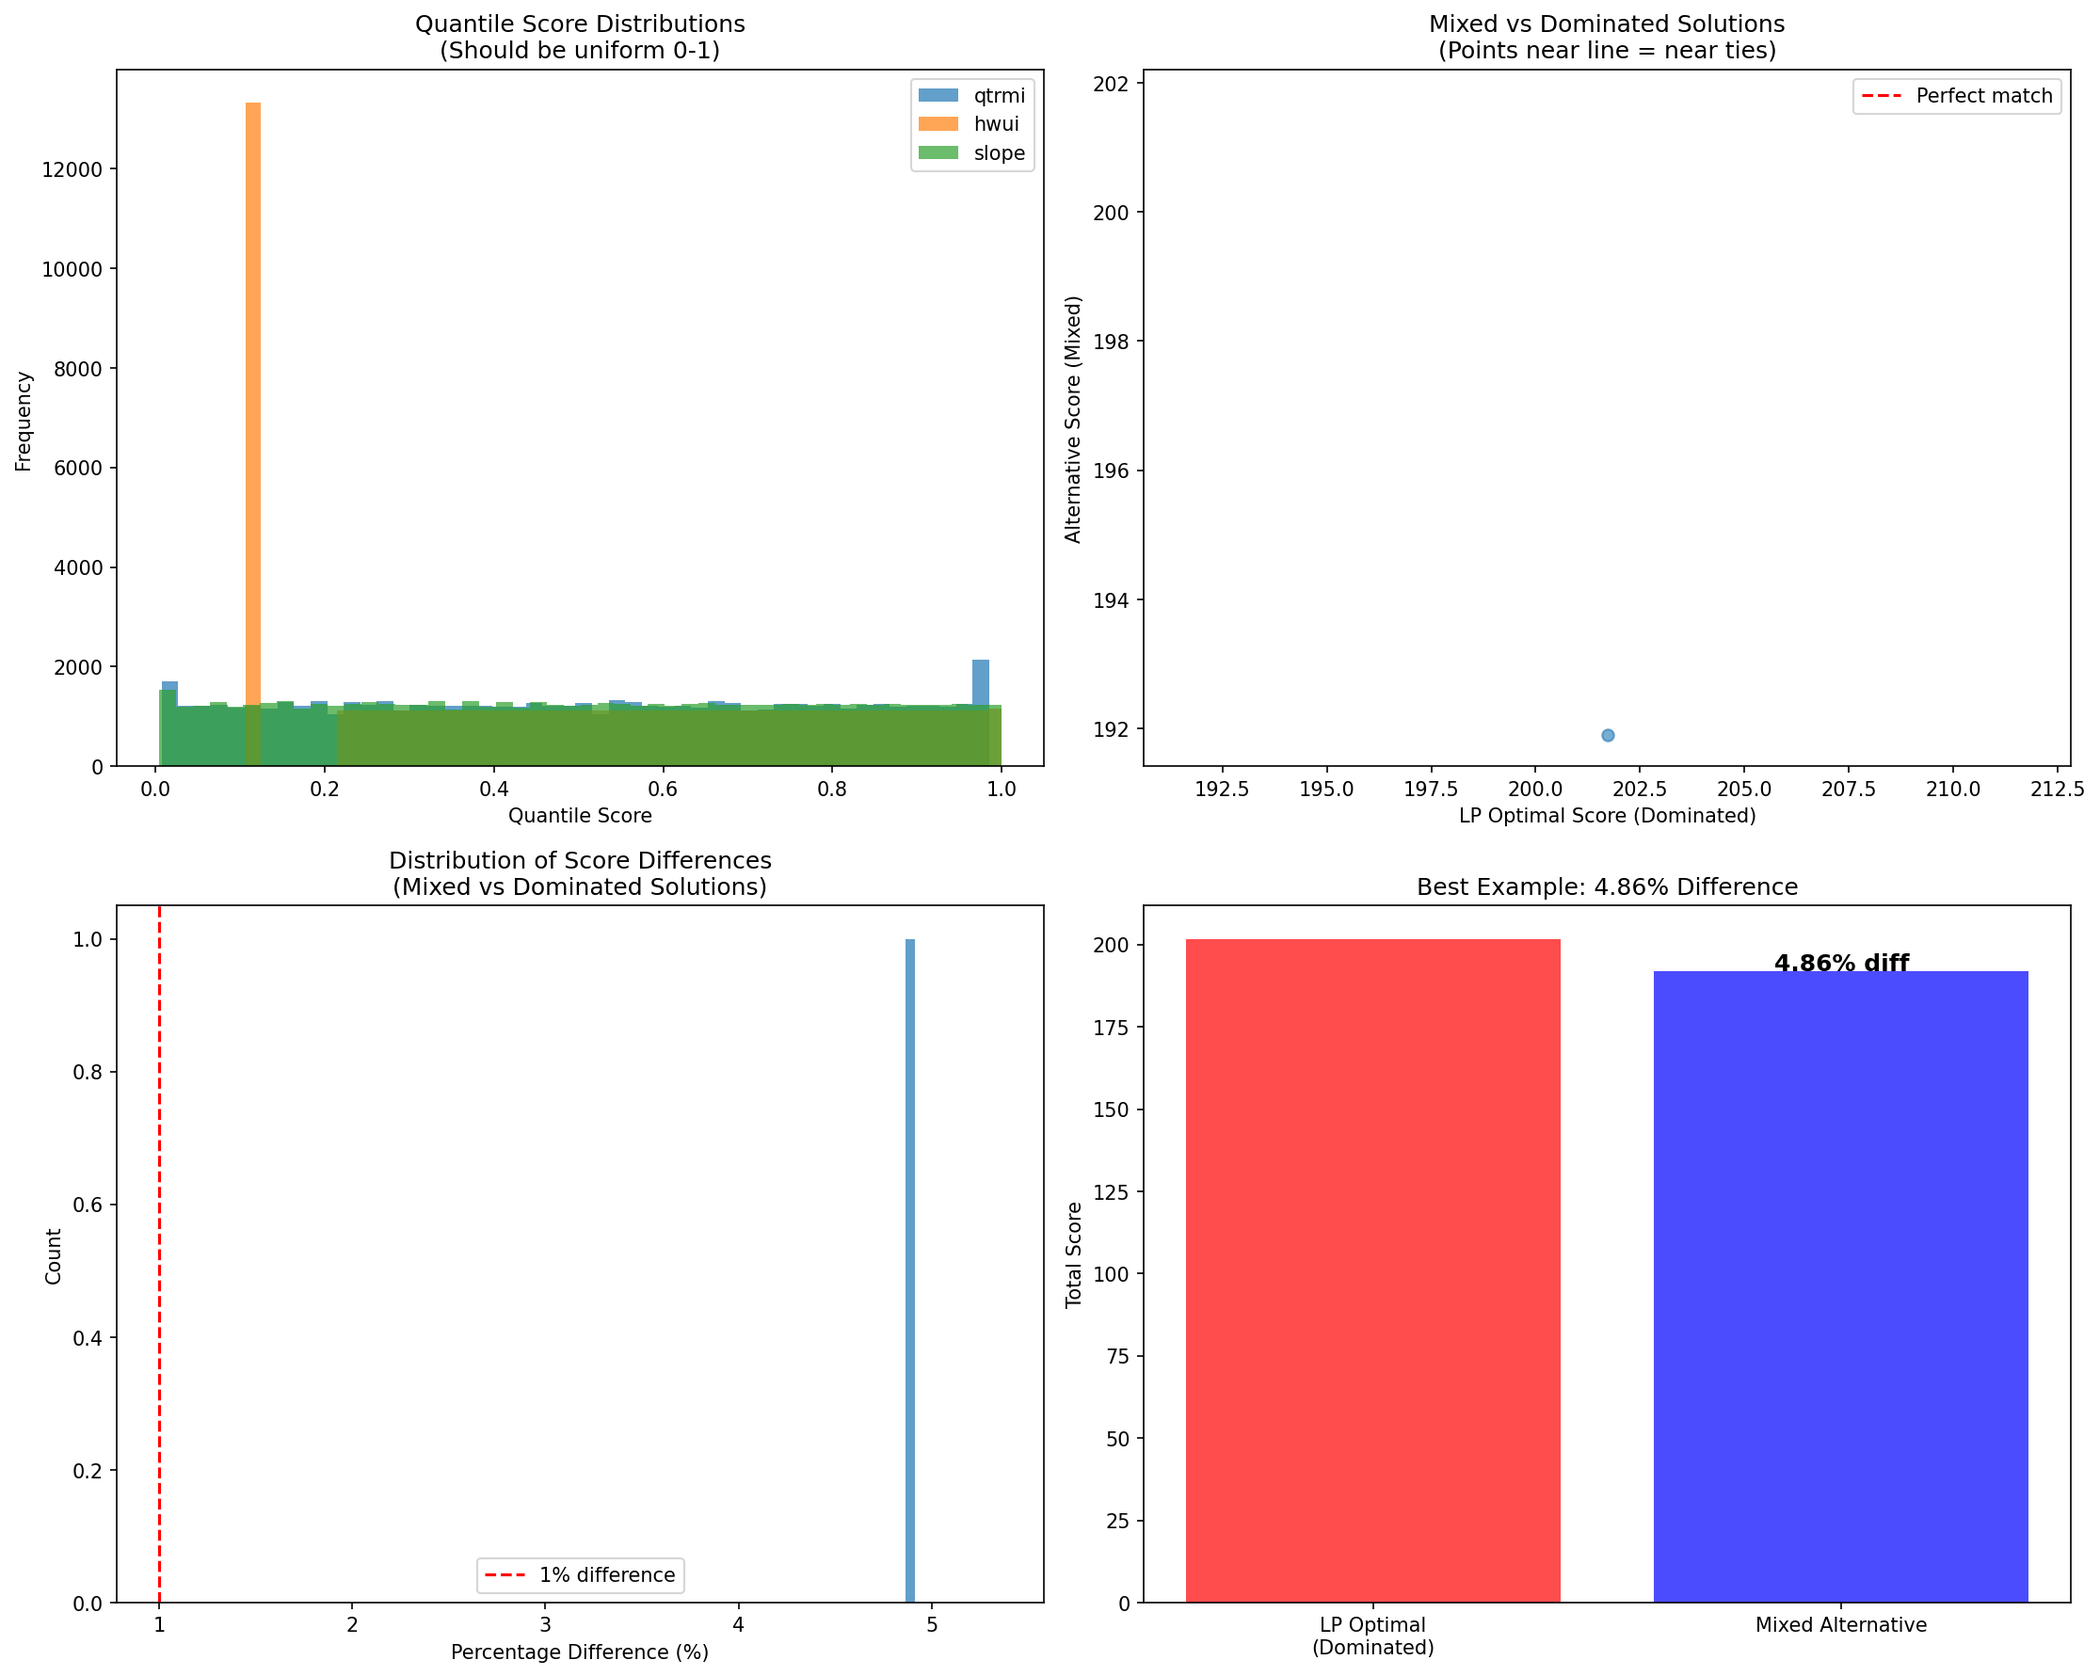
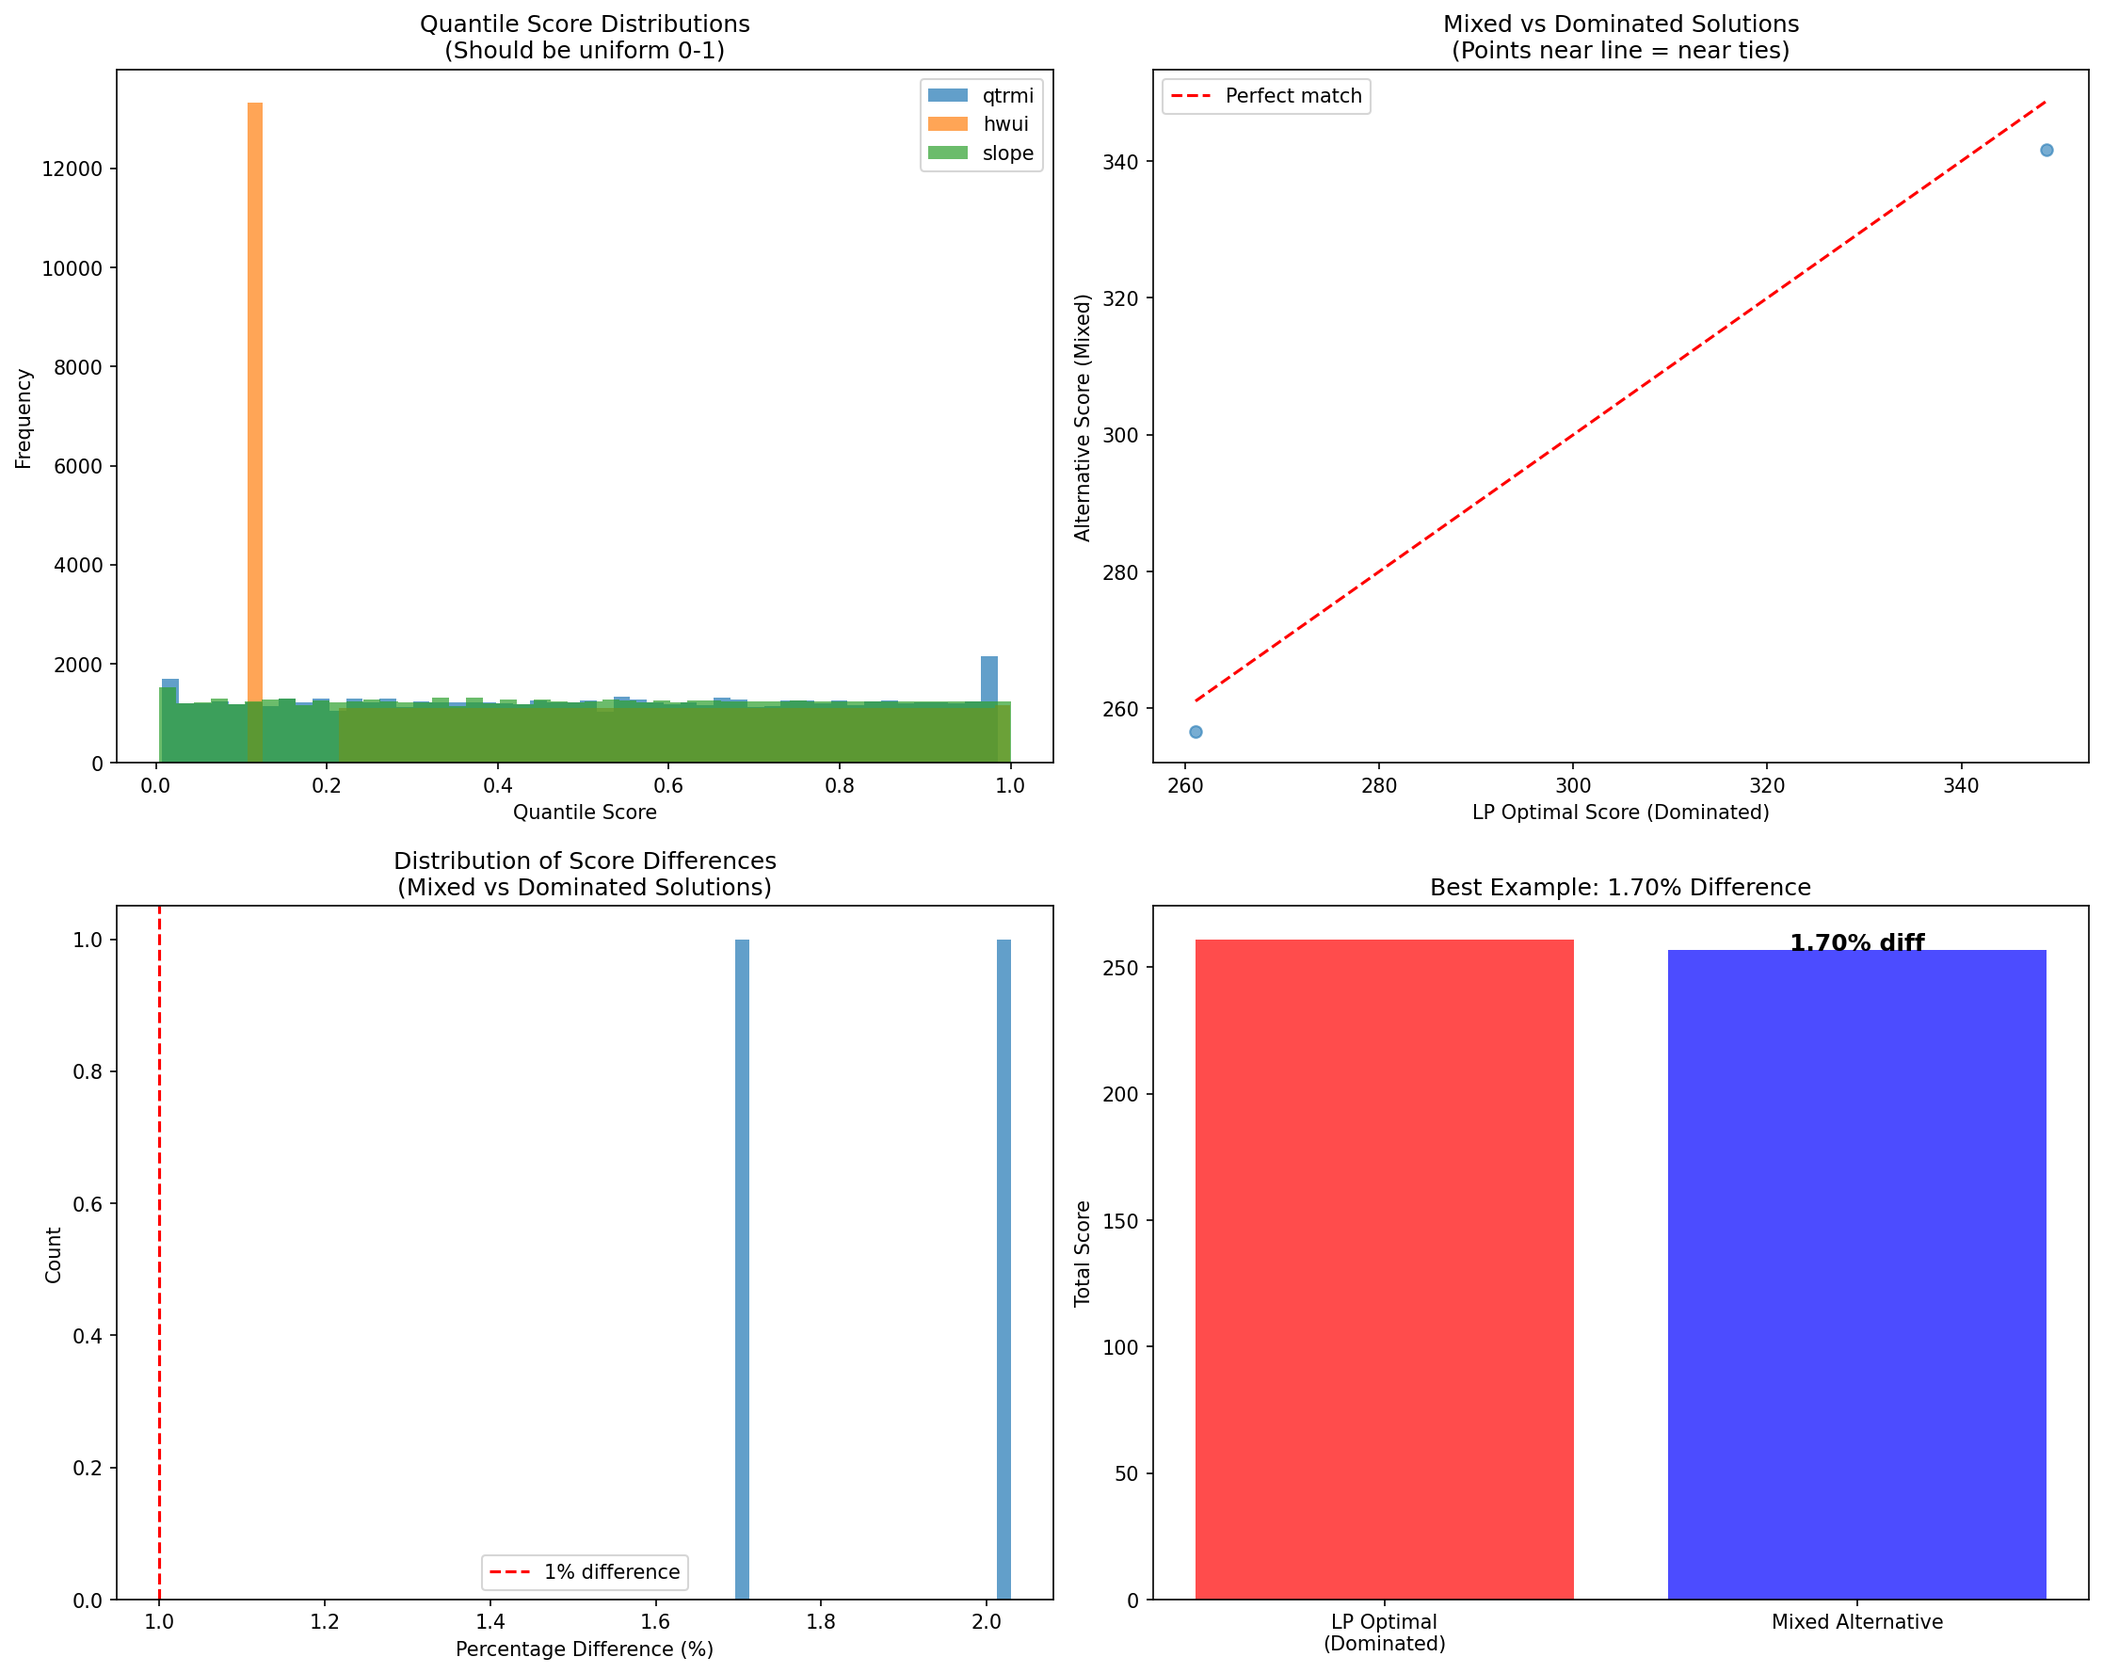
Replace relative optimization with heuristic search to maximize parcels in top N

diff --git a/app.py b/app.py
@@ -1242,103 +1242,160 @@ def solve_weight_optimization(parcel_data, include_vars):
         return None, None, None, False
 
 
-def solve_relative_optimization_qp(parcel_data, include_vars, top_n, request_data):
-    """Quadratic Programming solver for balanced relative optimization"""
+def solve_relative_optimization_heuristic(parcel_data, include_vars, top_n, request_data):
+    """Heuristic search to maximize selected parcels in top N"""
     import gc
+    import random
+    import time
     
-    try:
-        import cvxpy as cp
-    except ImportError as e:
-        logger.error(f"RELATIVE OPTIMIZATION FAILED: cvxpy not installed - {e}")
-        logger.error("Install with: pip install cvxpy")
-        return None, None, None, False
+    start_time = time.time()
     
     # Process variable names efficiently
     include_vars_base = [var[:-2] if var.endswith(('_s', '_q')) else var for var in include_vars]
     
-    logger.info(f"RELATIVE OPTIMIZATION (QP): {len(parcel_data):,} selected parcels, {len(include_vars_base)} variables")
+    logger.info(f"RELATIVE OPTIMIZATION (HEURISTIC): {len(parcel_data):,} selected parcels, target top {top_n}")
+    logger.info(f"Variables: {include_vars_base}")
     
-    # Build coefficients (sum of all scores for each variable)
-    coefficients = {}
-    for var_base in include_vars_base:
-        total_score = sum(parcel['scores'][var_base] for parcel in parcel_data)
-        coefficients[var_base] = total_score
-    
-    # Decision variables
-    weights = cp.Variable(len(include_vars_base))
-    
-    # Calculate statistics for adaptive penalty
-    coeff_array = np.array([coefficients[var] for var in include_vars_base])
-    mean_coeff = np.mean(coeff_array)
-    max_coeff = np.max(coeff_array)
-    
-    # Objective: Maximize score while encouraging balance
-    score = coeff_array @ weights
-    
-    # Variance penalty encourages balanced weights
-    weight_variance = cp.sum_squares(weights - 1/len(include_vars_base))
-    
-    # Adaptive penalty: less penalty when coefficients vary more (indicating true differences)
-    coeff_spread = np.std(coeff_array) / mean_coeff if mean_coeff > 0 else 0
-    lambda_param = max(0.01 * max_coeff, 0.1 * max_coeff * (1 - coeff_spread))
-    
-    # Fix DCP error: minimize negative score plus variance penalty (DCP-compliant)
-    objective = cp.Minimize(lambda_param * weight_variance - score)
-    
-    # Constraints
-    constraints = [
-        cp.sum(weights) == 1,  # Weights sum to 1
-        weights >= 0,  # Non-negative weights
-    ]
-    
-    # Solve
-    prob = cp.Problem(objective, constraints)
-    
-    try:
-        logger.info(f"Solving QP problem with {len(include_vars_base)} variables and {len(parcel_data)} parcels...")
-        prob.solve()
-        
-        if prob.status == cp.OPTIMAL:
-            # Extract results
-            optimal_weights = {}
-            for i, var_base in enumerate(include_vars_base):
-                optimal_weights[var_base] = float(weights.value[i])
-            
-            weights_pct = {var: weight * 100 for var, weight in optimal_weights.items()}
-            
-            # Log results
-            significant_weights = [(var, weight) for var, weight in optimal_weights.items() if weight > 0.01]
-            significant_weights.sort(key=lambda x: x[1], reverse=True)
-            logger.info(f"QP optimization completed successfully")
-            logger.info(f"BALANCED WEIGHTS: {[(var, f'{weight:.1%}') for var, weight in significant_weights]}")
-            
-            # Calculate total score
-            total_score = 0
-            for parcel in parcel_data:
-                for var_base in include_vars_base:
-                    score = parcel['scores'][var_base]
-                    weight = optimal_weights[var_base]
-                    total_score += weight * score
-            
-            gc.collect()
-            return optimal_weights, weights_pct, total_score, True
-            
-        else:
-            logger.error(f"QP optimization failed with status: {prob.status}")
-            logger.error("Problem details:")
-            logger.error(f"  - Variables: {len(include_vars_base)}")
-            logger.error(f"  - Coefficients: {coeff_array}")
-            logger.error(f"  - Lambda parameter: {lambda_param}")
-            gc.collect()
-            return None, None, None, False
-            
-    except Exception as e:
-        logger.error(f"QP solver error: {e}")
-        logger.error("Full traceback:")
-        import traceback
-        logger.error(traceback.format_exc())
-        gc.collect()
+    # Get full dataset to calculate global rankings
+    full_parcel_scores = request_data.get('parcel_scores', [])
+    if not full_parcel_scores:
+        logger.error("No full dataset provided for relative optimization")
         return None, None, None, False
+    
+    logger.info(f"Full dataset: {len(full_parcel_scores)} parcels")
+    
+    # Extract selected parcel IDs for tracking
+    selected_parcel_ids = set(parcel['parcel_id'] for parcel in parcel_data)
+    
+    def calculate_selected_in_top_n(weights):
+        """Calculate how many selected parcels end up in top N with given weights"""
+        # Calculate composite scores for all parcels
+        scored_parcels = []
+        for parcel in full_parcel_scores:
+            composite_score = 0
+            for var_base in include_vars_base:
+                if var_base in parcel['scores']:
+                    composite_score += weights.get(var_base, 0) * parcel['scores'][var_base]
+            
+            scored_parcels.append({
+                'parcel_id': parcel['parcel_id'],
+                'score': composite_score,
+                'is_selected': parcel['parcel_id'] in selected_parcel_ids
+            })
+        
+        # Sort by score and find top N
+        scored_parcels.sort(key=lambda x: x['score'], reverse=True)
+        top_n_parcels = scored_parcels[:top_n]
+        
+        # Count how many selected parcels are in top N
+        selected_in_top_n = sum(1 for p in top_n_parcels if p['is_selected'])
+        
+        return selected_in_top_n, scored_parcels
+    
+    # Start with equal weights
+    best_weights = {var: 1.0 / len(include_vars_base) for var in include_vars_base}
+    best_count, _ = calculate_selected_in_top_n(best_weights)
+    
+    logger.info(f"Starting with equal weights: {best_count}/{len(selected_parcel_ids)} selected parcels in top {top_n}")
+    
+    # If no selected parcels can make it to top N with any reasonable weights, fail early
+    if best_count == 0:
+        # Try some extreme single-variable weights to test feasibility
+        for var in include_vars_base:
+            test_weights = {v: 0.0 for v in include_vars_base}
+            test_weights[var] = 1.0
+            test_count, _ = calculate_selected_in_top_n(test_weights)
+            if test_count > best_count:
+                best_count = test_count
+                best_weights = test_weights.copy()
+        
+        if best_count == 0:
+            logger.error(f"RELATIVE OPTIMIZATION FAILED: No weighting scheme can get any selected parcels into top {top_n}")
+            raise ValueError(f"Selected area contains parcels that cannot reach top {top_n} with any weighting")
+    
+    # Heuristic search strategies
+    max_iterations = 200
+    patience = 50  # Stop if no improvement for this many iterations
+    no_improvement_count = 0
+    
+    logger.info(f"Starting heuristic search with {max_iterations} iterations...")
+    
+    for iteration in range(max_iterations):
+        # Strategy 1: Random perturbation of current best
+        if iteration < max_iterations // 2:
+            # Small random adjustments
+            new_weights = best_weights.copy()
+            
+            # Pick 2-3 variables to adjust
+            vars_to_adjust = random.sample(include_vars_base, min(3, len(include_vars_base)))
+            
+            # Transfer small amount between variables
+            transfer_amount = random.uniform(0.05, 0.15)
+            donor_var = random.choice(vars_to_adjust)
+            recipient_var = random.choice([v for v in vars_to_adjust if v != donor_var])
+            
+            if new_weights[donor_var] >= transfer_amount:
+                new_weights[donor_var] -= transfer_amount
+                new_weights[recipient_var] += transfer_amount
+        
+        # Strategy 2: More aggressive random sampling
+        else:
+            # Generate random weights that sum to 1
+            random_vals = [random.random() for _ in include_vars_base]
+            total = sum(random_vals)
+            new_weights = {var: val/total for var, val in zip(include_vars_base, random_vals)}
+        
+        # Evaluate new weights
+        new_count, _ = calculate_selected_in_top_n(new_weights)
+        
+        # Accept if better, or occasionally if equal (to explore)
+        accept_prob = 1.0 if new_count > best_count else (0.1 if new_count == best_count else 0.0)
+        
+        if random.random() < accept_prob:
+            if new_count > best_count:
+                logger.info(f"Iteration {iteration}: Improved from {best_count} to {new_count} selected parcels in top {top_n}")
+                no_improvement_count = 0
+            else:
+                no_improvement_count += 1
+                
+            best_count = new_count
+            best_weights = new_weights.copy()
+        else:
+            no_improvement_count += 1
+        
+        # Early stopping if no improvement
+        if no_improvement_count >= patience:
+            logger.info(f"Stopping early at iteration {iteration}: no improvement for {patience} iterations")
+            break
+    
+    # Final evaluation
+    final_count, final_ranking = calculate_selected_in_top_n(best_weights)
+    
+    # Convert to percentage weights
+    weights_pct = {var: weight * 100 for var, weight in best_weights.items()}
+    
+    # Calculate total score for selected parcels
+    total_score = 0
+    for parcel in parcel_data:
+        for var_base in include_vars_base:
+            if var_base in parcel['scores']:
+                score = parcel['scores'][var_base]
+                weight = best_weights[var_base]
+                total_score += weight * score
+    
+    # Log results
+    significant_weights = [(var, weight) for var, weight in best_weights.items() if weight > 0.01]
+    significant_weights.sort(key=lambda x: x[1], reverse=True)
+    
+    elapsed_time = time.time() - start_time
+    success_rate = (final_count / len(selected_parcel_ids)) * 100
+    
+    logger.info(f"HEURISTIC OPTIMIZATION COMPLETED in {elapsed_time:.2f}s")
+    logger.info(f"RESULT: {final_count}/{len(selected_parcel_ids)} selected parcels in top {top_n} ({success_rate:.1f}% success rate)")
+    logger.info(f"WEIGHTS: {[(var, f'{weight:.1%}') for var, weight in significant_weights]}")
+    
+    gc.collect()
+    return best_weights, weights_pct, total_score, True
 def generate_solution_files(include_vars, best_weights, weights_pct, total_score, 
                            parcel_data, request_data):
     """Generate LP and TXT solution files"""
@@ -1431,18 +1488,19 @@ def generate_solution_files(include_vars, best_weights, weights_pct, total_score
     if optimization_type == 'relative':
         txt_lines.extend([
             "",
-            "OPTIMIZATION TYPE: Relative Balanced Optimization (QP)", 
-            f"OBJECTIVE: Balanced weight allocation for ranking in top {top_n} parcels",
+            "OPTIMIZATION TYPE: Relative Heuristic Search", 
+            f"OBJECTIVE: Maximize selected parcels ranking in top {top_n} globally",
             "",
             f"Selected parcels analyzed: {parcel_count:,}",
             f"Target ranking: Top {top_n} parcels",
             f"Average score of selected parcels: {avg_score:.3f}",
             "",
-            "MATHEMATICAL APPROACH:",
-            "  maximize: Σ(weight_i × score_i) - λ × variance(weights)",
-            "  subject to: Σ(weights) = 1, weights ≥ 0",
-            "  This balances maximizing risk score with distributing weights across",
-            "  multiple risk factors for more robust risk assessment.",
+            "HEURISTIC APPROACH:",
+            "  1. Test multiple weight combinations using random search",
+            "  2. Evaluate how many selected parcels rank in global top N",
+            "  3. Iteratively improve to maximize selected parcels in top N",
+            "  4. Balance exploration vs exploitation with acceptance probability",
+            "  This directly optimizes the user's goal of getting their area into top rankings.",
         ])
     else:
         txt_lines.extend([
@@ -1528,7 +1586,7 @@ def infer_weights():
             if 'parcel_scores' in data:
                 logger.info(f"RELATIVE OPTIMIZATION: parcel_scores count={len(data['parcel_scores'])}")
             
-            best_weights, weights_pct, total_score, success = solve_relative_optimization_qp(
+            best_weights, weights_pct, total_score, success = solve_relative_optimization_heuristic(
                 parcel_data, include_vars, top_n, data
             )
         else:
